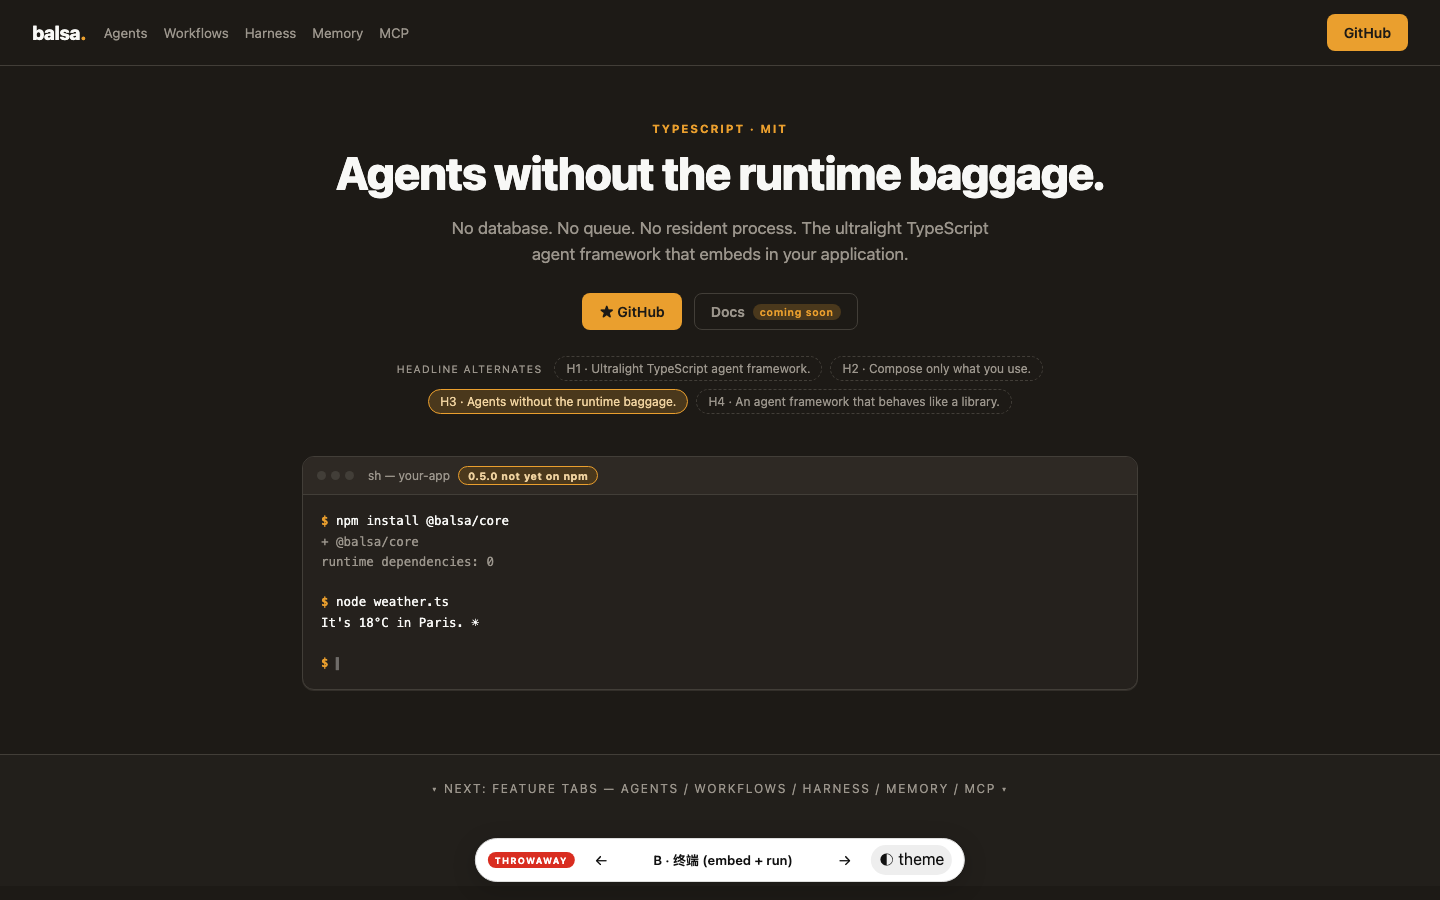
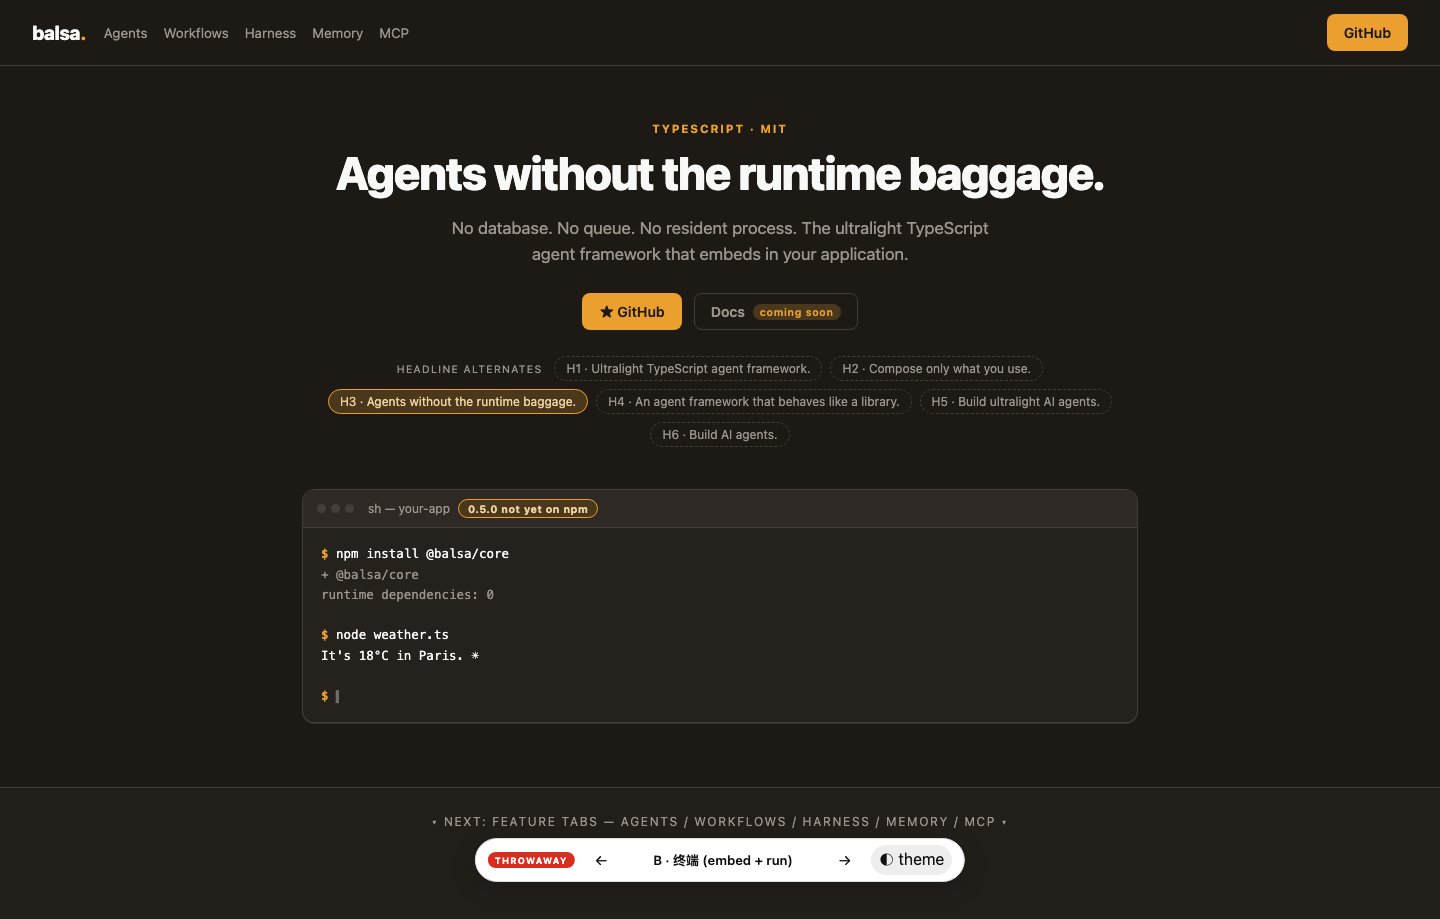
prototype(#4): add variant D 复刻 Mastra (centered stack + code/trace-waterfall product window), H5/H6 copy, per-user steer

diff --git a/prototype/hero/index.html b/prototype/hero/index.html
@@ -154,6 +154,24 @@
   .manifest .ledger { margin-top: 16px; font-size: 12px; color: var(--muted); line-height: 1.7; }
   .manifest .ledger b { color: var(--fg); }
 
+  /* ---------- variant layout: D = mastra replica — centered stack + wide product window ---------- */
+  #v-d .hero { max-width: 1120px; margin: 0 auto; text-align: center; }
+  #v-d .sub { margin-left: auto; margin-right: auto; }
+  #v-d .ctas { justify-content: center; }
+  #v-d .copyrow { justify-content: center; }
+  #v-d .window { margin-top: 46px; text-align: left; display: grid; grid-template-columns: 1fr 1fr; }
+  #v-d .window .pane { min-width: 0; }
+  #v-d .window .pane + .pane { border-left: 1px solid var(--line); }
+  .trace { padding: 14px 16px 16px; font-size: 11.5px; }
+  .trace .thead { font-size: 10.5px; letter-spacing: .1em; text-transform: uppercase; color: var(--muted); margin-bottom: 10px; }
+  .trow { display: grid; grid-template-columns: 86px 1fr 44px; gap: 10px; align-items: center; margin-bottom: 7px; }
+  .trow .lane { color: var(--muted); font-size: 10.5px; }
+  .trow .track { position: relative; height: 14px; background: var(--code-head); border-radius: 4px; }
+  .trow .fill { position: absolute; top: 2px; bottom: 2px; border-radius: 3px; background: var(--accent); opacity: .85; }
+  .trow.tool .fill { background: var(--ok); }
+  .trow .ms { color: var(--muted); font-size: 10px; text-align: right; }
+  .trace .tsum { margin-top: 10px; color: var(--muted); font-size: 10.5px; }
+
   /* ---------- floating switcher (prototype chrome — never ships) ---------- */
   #switcher { position: fixed; left: 50%; bottom: 18px; transform: translateX(-50%); z-index: 99;
     display: flex; align-items: center; gap: 10px;
@@ -290,6 +308,53 @@ It's 18°C in Paris. ☀
   </div>
 </section>
 
+<!-- ============ variant D · 复刻 Mastra (centered stack + product window: code + trace waterfall) ============ -->
+<section class="v" id="v-d" style="display:none">
+  <div class="hero">
+    <div>
+      <div class="kicker">TypeScript · MIT</div>
+      <h1 data-h>Build ultralight AI agents.</h1>
+      <p class="sub" data-s>Build, compose, and ship agents with zero runtime dependencies — Balsa,
+        the ultralight TypeScript agent framework.</p>
+      <div class="ctas">
+        <a class="btn primary" href="#">★ GitHub</a>
+        <a class="btn ghost" href="#">Docs <b>coming soon</b></a>
+      </div>
+      <div class="copyrow" data-copy>
+        <span class="lbl">headline alternates</span>
+      </div>
+    </div>
+    <div class="card window">
+      <div class="bar"><span class="dots"><i></i><i></i><i></i></span>assistant — weather.ts <span style="flex:1"></span>
+        <span class="badge">trace</span></div>
+      <div class="pane">
+        <pre><span class="c-kw">import</span> { Agent } <span class="c-kw">from</span> <span class="c-mod">'@balsa/core/agent'</span>;
+<span class="c-kw">import</span> { createTool } <span class="c-kw">from</span> <span class="c-mod">'@balsa/core/tools'</span>;
+
+<span class="c-kw">const</span> agent = <span class="c-kw">new</span> Agent({
+  name: <span class="c-str">'assistant'</span>,
+  instructions: <span class="c-str">'You are concise.'</span>,
+  model: openai.chat(<span class="c-str">'gpt-4o-mini'</span>),
+  tools: { weather },
+});
+
+<span class="c-kw">const</span> run = agent.stream(
+  <span class="c-str">'Weather in Paris?'</span>,
+);</pre>
+      </div>
+      <div class="pane trace">
+        <div class="thead">run — waterfall</div>
+        <div class="trow"><span class="lane">input</span><span class="track"><span class="fill" style="left:0;width:8%"></span></span><span class="ms">3ms</span></div>
+        <div class="trow tool"><span class="lane">tool-call</span><span class="track"><span class="fill" style="left:8%;width:22%"></span></span><span class="ms">weather</span></div>
+        <div class="trow tool"><span class="lane">tool-result</span><span class="track"><span class="fill" style="left:30%;width:12%"></span></span><span class="ms">18°C</span></div>
+        <div class="trow"><span class="lane">text-delta</span><span class="track"><span class="fill" style="left:42%;width:48%"></span></span><span class="ms">stream</span></div>
+        <div class="trow"><span class="lane">finish</span><span class="track"><span class="fill" style="left:90%;width:8%"></span></span><span class="ms">stop</span></div>
+        <div class="tsum">for await (chunk of run) — every step on one object</div>
+      </div>
+    </div>
+  </div>
+</section>
+
 <div class="section-hint">▾ next: feature tabs — agents / workflows / harness / memory / mcp ▾</div>
 
 <!-- ============ floating prototype switcher (never ships) ============ -->
@@ -307,6 +372,7 @@ It's 18°C in Paris. ☀
     { key: 'a', name: 'A · 代码卡 (small surface)', note: 'split: text → editor card' },
     { key: 'b', name: 'B · 终端 (embed + run)',     note: 'stacked: centered → terminal' },
     { key: 'c', name: 'C · 清单卡 (import map)',    note: 'mirrored: manifest → text' },
+    { key: 'd', name: 'D · 复刻 Mastra (product window)', note: 'centered + code/trace waterfall' },
   ];
 
   // headline / sub pairs (README-grounded; absolute facts only — no KB/test numbers, no competitors)
@@ -319,8 +385,12 @@ It's 18°C in Paris. ☀
       s: 'No database. No queue. No resident process. The ultralight TypeScript agent framework that embeds in your application.' },
     { id: 'H4', h: 'An agent framework that behaves like a library.',
       s: 'Model instances straight from the AI SDK ecosystem, a tool is four fields, one cross-cutting extension point. Balsa composes into your app.' },
+    { id: 'H5', h: 'Build ultralight AI agents.',
+      s: 'Build, compose, and ship agents with zero runtime dependencies — Balsa, the ultralight TypeScript agent framework.' },
+    { id: 'H6', h: 'Build AI agents.',
+      s: 'Build, compose, and run agents that embed anywhere — with Balsa, the ultralight TypeScript agent framework. (H6 = mastra 句式逐字复刻，慎用)' },
   ];
-  const DEFAULT_COPY = { a: 'H2', b: 'H3', c: 'H1' };
+  const DEFAULT_COPY = { a: 'H2', b: 'H3', c: 'H1', d: 'H5' };
   const chosen = { ...DEFAULT_COPY };
 
   const body = document.body;

diff --git a/prototype/hero/README.md b/prototype/hero/README.md
@@ -10,9 +10,11 @@ Three structurally different hero variants on the decided brand direction
 | `a` | 代码卡 | split: text → editor card w/ README quick start, annotated ("one import per subsystem", "a tool is four fields") | H2 `Compose only what you use.` |
 | `b` | 终端 | stacked: centered headline → terminal card (`npm install` → run), amber `0.5.0 not yet on npm` tension badge | H3 `Agents without the runtime baggage.` |
 | `c` | 清单卡 | mirrored: import-map manifest (subpath-export chips, ghosted = not imported) → text | H1 `Ultralight TypeScript agent framework.` |
+| `d` | 复刻 Mastra | centered stack + wide product window: code pane + trace-waterfall pane (`input → tool-call → tool-result → text-delta → finish`) | H5 `Build ultralight AI agents.` |
 
-All three carry clickable **headline alternates** (H1–H4, README-grounded) so copy can be mixed
-across forms — click a chip to swap headline + sub live, per variant.
+All variants carry clickable **headline alternates** (H1–H6, README-grounded) so copy can be mixed
+across forms — click a chip to swap headline + sub live, per variant. H6 (`Build AI agents.`) is a
+literal mastra-sentence replica, flagged 慎用.
 
 ## Run
 
